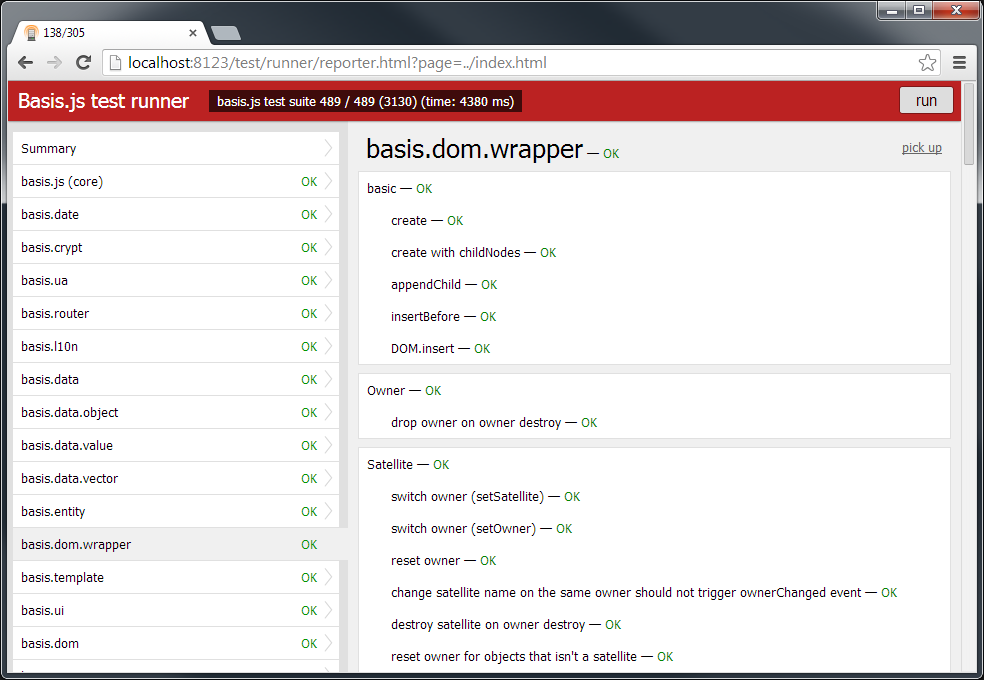
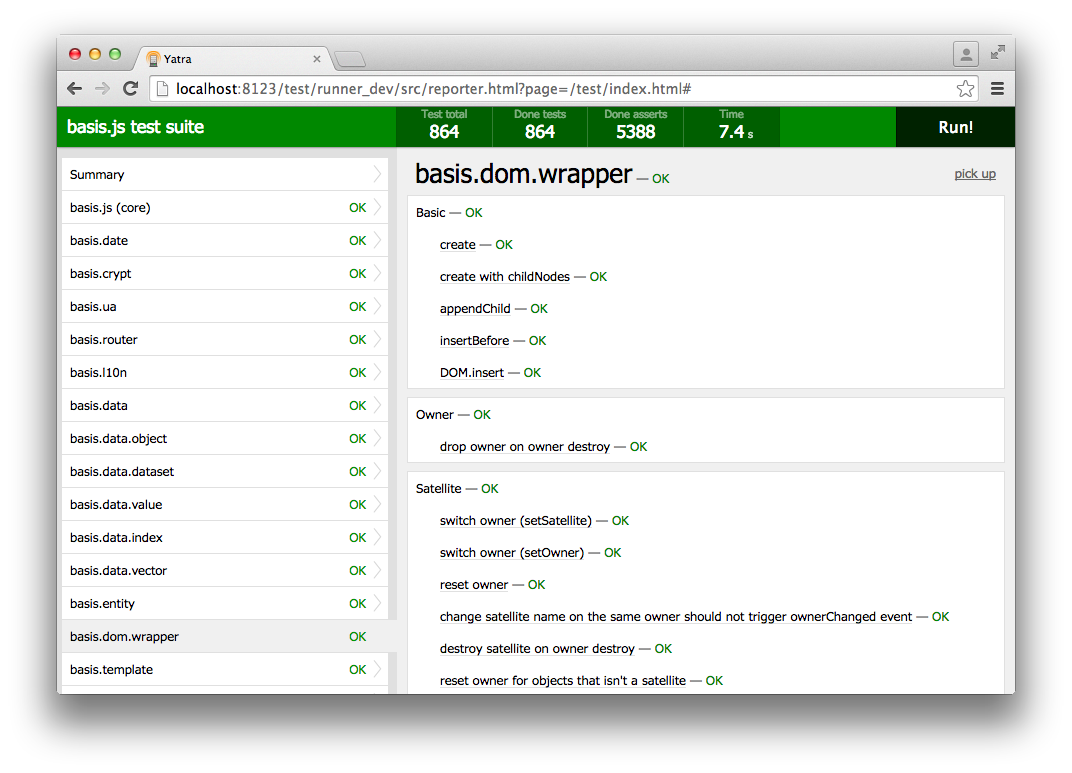
update screenshots and small fixes

diff --git a/example/showcase.html b/example/showcase.html
@@ -21,28 +21,32 @@
     }
   </style>
 
-  <!--<link rel="stylesheet" href="../build/style.css">
-  <script src="../build/basis.js"></script>-->
   <script src="../bower_components/basisjs/src/basis.js" data-basis-config="
-    autoload: '../src/reporter/app',
+    noConflict: true,
+    exports: true,
     modules: {
-      core: '../src/',
       esprima: '../bower_components/esprima/',
-      diff: '../bower_components/jsdiff/'
-    },
-    exports: true
+      diff: '../bower_components/jsdiff/',
+      runner: {
+        path: '../src/runner',
+        filename: './index.js'
+      },
+      app: {
+        autoload: true,
+        path: '../src/app',
+        filename: './index.js'
+      }
+    }
   "></script>
 </head>
 
 <body>
-  <div id="test-runner" style="border: 1px solid black; margin: 10px;">
-  </div>
+  <div id="test-runner"></div>
   <script>
-    basisjsTestRunner.setup({
-      element: document.getElementById('test-runner'),
-      baseURI: '../build/'
+    yatra.setup({
+      element: document.getElementById('test-runner')
     });
-    basisjsTestRunner.loadTests({
+    yatra.loadTests({
       name: 'Showcase',
       test: [
         {
@@ -87,8 +91,8 @@
                   }
                 );
 
-                var foo = function(){ return assert(1, 1) };
-                assert(function(){ return assert(1, 1) }, foo);
+                var foo = function(){ return assert(1, 1); };
+                assert(function(){ return assert(1, 1); }, foo);
 
                 // function bar(){ return assert(1, 1); };
                 // assert(function bar(){ return assert(1, 1); }, bar);
@@ -97,7 +101,7 @@
             {
               name: 'Failures',
               test: function(){
-                assert(true, false)
+                assert(true, false);
                 assert({ a: 1, b: 2 }, { a: 1, c: 2 });
                 assert([{ a: 1 }], [{ a: 1 }]);
                 assert([1, 2], [2, 3]);
@@ -323,7 +327,7 @@
         }
       ]
     });
-    basisjsTestRunner.run();
+    yatra.run();
   </script>
 </body>
 </html>

diff --git a/example/non_basis_setup/index.html b/example/non_basis_setup/index.html
@@ -7,7 +7,6 @@
 </head>
 
 <body>
-  <script src="path/to/src/basis.js" basis-config></script>
   <script>
     if (this.top === this)
       location.href = 'runner/reporter.html?page=../index.html'; // page parameter value should contain relative path

diff --git a/example/non_basis_setup/env.html b/example/non_basis_setup/env.html
@@ -3,11 +3,10 @@
 
 <head>
   <meta charset="utf-8">
-  <title>basis.js base environment</title>
+  <title>base environment</title>
 </head>
 
 <body>
-  <script src="../src/basis.js" data-basis-config=""></script>
 </body>
 
 </html>

diff --git a/src/runner/build.js b/src/runner/build.js
@@ -1,7 +1,7 @@
 // This module uses for runner build.
 
 // Export runner to global scrope
-global.runner = require('runner');
+global.yatra = require('runner');
 
 // Try resolve base path to runner static files.
 runner.setup({
